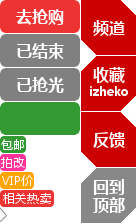
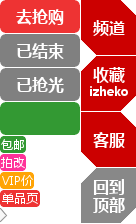
go

Changed region(s): [[0.0, 0.8438, 0.4118, 0.9375], [0.6765, 0.5625, 0.9412, 0.6875]]

diff --git a/static/public/css/main.css b/static/public/css/main.css
@@ -419,12 +419,12 @@ b.sns-kaixin     { background-position: 0 -264px; }
 b.sns-qq_haoyou  { background-position: 0 -3024px; }
 
 
-.item h2 a, .item .action, .item .post, .item .vip, .item .gai, .item .remai, 
+.item h2 a, .item .action, .item .post, .item .vip, .item .gai, .item .danpin, 
 #pindao-button, #bookmark, #fankui, #gotop, #pindao-wrapper div i {
-    background-image: url(/img/button.png?v=20131119.0);
+    background-image: url(/img/button.png?v=20131213.0);
 }
 #pindao-button, #bookmark, #fankui, #gotop, #pindao-wrapper div i {
-    _background-image: url(/img/button-fs8.png?v=20131119.0);
+    _background-image: url(/img/button-fs8.png?v=20131213.0);
 }
 
 
@@ -591,7 +591,7 @@ b.sns-qq_haoyou  { background-position: 0 -3024px; }
     background-position: 0 -102px;
 }
 
-.item .post, .item .vip, .item .gai, .item .remai {
+.item .post, .item .vip, .item .gai, .item .danpin {
     display: inline-block;
     height: 17px;
     margin-left: 5px;
@@ -609,19 +609,19 @@ b.sns-qq_haoyou  { background-position: 0 -3024px; }
     width: 34px;
     background-position: 0 -172px;
 }
-.item .remai {
-    width: 54px;
+.item .danpin {
+    width: 40px;
     background-position: 0 -190px;
 }
-.item div .remai {
+.item div .danpin {
     float: right;
     margin-right: 15px;
 }
-.item .right .remai {
+.item .right .danpin {
     margin-left: 30px;
     vertical-align: baseline;
 }
-.item .remai:hover {
+.item .danpin:hover {
     opacity: 0.8;
     filter: alpha(opacity=80);
 }

diff --git a/static/public/js/main.js b/static/public/js/main.js
@@ -322,7 +322,7 @@ Izheko.item_list_init = function() {
         var item = $(this);
         var time_left = item.children('div').children('h3');
         if(!item.attr('x')){ time_left
-        .prepend('<a data-itemid="' + item.children('h1').children('a:nth-child(2)').attr('data-itemid') + '" data-rd="2" class="remai" title="与这个宝贝相关的热卖宝贝" target="_blank"></a>')
+        .prepend('<a href="/item/' + item.children('h1').children('a:nth-child(2)').attr('data-itemid') + '" class="danpin" target="_blank"></a>')
         .next('p').prepend('<span>小编： </span>')
         .before('<h4 class="sns-share">分享：' + Izheko.SnsShareLib.icons_b + '</h4>');
             item.attr('x', 'o');

diff --git a/static/js/items.js b/static/js/items.js
@@ -5,7 +5,7 @@ Izheko.item_list_init = function() {
         var item = $(this);
         var time_left = item.children('div').children('h3');
         if(!item.attr('x')){ time_left
-        .prepend('<a data-itemid="' + item.children('h1').children('a:nth-child(2)').attr('data-itemid') + '" data-rd="2" class="remai" title="与这个宝贝相关的热卖宝贝" target="_blank"></a>')
+        .prepend('<a href="/item/' + item.children('h1').children('a:nth-child(2)').attr('data-itemid') + '" class="danpin" target="_blank"></a>')
         .next('p').prepend('<span>小编： </span>')
         .before('<h4 class="sns-share">分享：' + Izheko.SnsShareLib.icons_b + '</h4>');
             item.attr('x', 'o');

diff --git a/static/css/items.css b/static/css/items.css
@@ -122,7 +122,7 @@
     background-position: 0 -102px;
 }
 
-.item .post, .item .vip, .item .gai, .item .remai {
+.item .post, .item .vip, .item .gai, .item .danpin {
     display: inline-block;
     height: 17px;
     margin-left: 5px;
@@ -140,19 +140,19 @@
     width: 34px;
     background-position: 0 -172px;
 }
-.item .remai {
-    width: 54px;
+.item .danpin {
+    width: 40px;
     background-position: 0 -190px;
 }
-.item div .remai {
+.item div .danpin {
     float: right;
     margin-right: 15px;
 }
-.item .right .remai {
+.item .right .danpin {
     margin-left: 30px;
     vertical-align: baseline;
 }
-.item .remai:hover {
+.item .danpin:hover {
     opacity: 0.8;
     filter: alpha(opacity=80);
 }

diff --git a/static/css/content.css b/static/css/content.css
@@ -51,11 +51,11 @@ b.sns-kaixin     { background-position: 0 -264px; }
 b.sns-qq_haoyou  { background-position: 0 -3024px; }
 
 
-.item h2 a, .item .action, .item .post, .item .vip, .item .gai, .item .remai, 
+.item h2 a, .item .action, .item .post, .item .vip, .item .gai, .item .danpin, 
 #pindao-button, #bookmark, #fankui, #gotop, #pindao-wrapper div i {
-    background-image: url(/img/button.png?v=20131119.0);
+    background-image: url(/img/button.png?v=20131213.0);
 }
 #pindao-button, #bookmark, #fankui, #gotop, #pindao-wrapper div i {
-    _background-image: url(/img/button-fs8.png?v=20131119.0);
+    _background-image: url(/img/button-fs8.png?v=20131213.0);
 }
 

diff --git a/static/img/button/button.php b/static/img/button/button.php
@@ -28,7 +28,7 @@ function button_img($file)
     $y = 0;
     draw_hexagon($draw, $x, $y, 55, 15, 'l', '#cc0000', '频道',       'v');
     draw_hexagon($draw, $x, $y, 55, 15, 'r', '#cc0000', '收藏izheko', 'v');
-    draw_hexagon($draw, $x, $y, 55, 15, 'l', '#cc0000', '反馈',       'v');
+    draw_hexagon($draw, $x, $y, 55, 15, 'l', '#cc0000', '客服',       'v');
     draw_hexagon($draw, $x, $y, 55, 15, 'r', '#888',    '回到顶部',   'v');
 
     $draw->setFont('./msyh.ttf');
@@ -50,7 +50,7 @@ function button_img($file)
     draw_button($draw, $x, $y, 26, 17, 3, '#393',    '包邮',     13, 'v');
     draw_button($draw, $x, $y, 26, 17, 3, '#f39',    '拍改',     13, 'v');
     draw_button($draw, $x, $y, 34, 17, 3, '#ffa405', 'VIP价',    13, 'v');
-    draw_button($draw, $x, $y, 54, 17, 3, '#e33',    '相关热卖', 13, 'v');
+    draw_button($draw, $x, $y, 40, 17, 3, '#e33',    '单品页',   13, 'v');
 
     draw_arrow($draw, $x, $y, 7, 14, '#999' );
 

diff --git a/www/view/layout.view.php b/www/view/layout.view.php
@@ -6,9 +6,9 @@
         <meta name="viewport"   content="width=device-width,initial-scale=1.0" />
 <?php require 'module/seo.view.php'; ?>
         <link href="<?= App::static_server() ?>/img/favicon.ico?v=20130817" rel="shortcut icon" />
-        <link href="<?= App::static_server() ?>/css/main.css?v=20131212.0" rel="stylesheet" />
+        <link href="<?= App::static_server() ?>/css/main.css?v=20131213.0" rel="stylesheet" />
         <script src="<?= App::static_server() ?>/js/jquery.min.js"></script>
-        <script src="<?= App::static_server() ?>/js/main.js?v=20131120.1"></script>
+        <script src="<?= App::static_server() ?>/js/main.js?v=20131213.0"></script>
     </head>
     <body>
 <?php require 'module/header.view.php'; ?>

diff --git a/www/view/content/filter.view.php b/www/view/content/filter.view.php
@@ -23,9 +23,9 @@ foreach(array(
                 </span>
                 <span id="sort">
 <?php if ($sort === 'newest') { ?>
-                    <a class="lrc" href="<?= $filter_url ?>">最热</a><span class="rrc">最新</span>
+                    <a class="lrc" title="最热排序" href="<?= $filter_url ?>">最热</a><span class="rrc" title="最新排序">最新</span>
 <?php } else { ?>
-                    <span class="lrc">最热</span><a class="rrc" href="<?= $filter_url ?>newest">最新</a>
+                    <span class="lrc" title="最热排序">最热</span><a class="rrc"  title="最新排序" href="<?= $filter_url ?>newest">最新</a>
 <?php } ?>
                 </span>
             </div>

diff --git a/www/view/content/item.view.php b/www/view/content/item.view.php
@@ -17,7 +17,6 @@
                     <h3><?= $item->time_left() ?></h3>
                     <p><?= $item->get('ref_tip') ?></p>
                     <a data-rd="1" class="action <?= $item->action_style() ?>" title="<?= $item->action_title() ?>" href="#" data-itemid="<?= $item->get('num_iid') ?>" target="_blank"><?= $item->action() ?></a>
-                    <a data-rd="2" class="remai" title="与这个宝贝相关的热卖宝贝" href="#" data-itemid="<?= $item->get('num_iid') ?>" target="_blank"></a>
                 </span>
                 <script> Izheko.single_item_init(); </script>
             </div>
